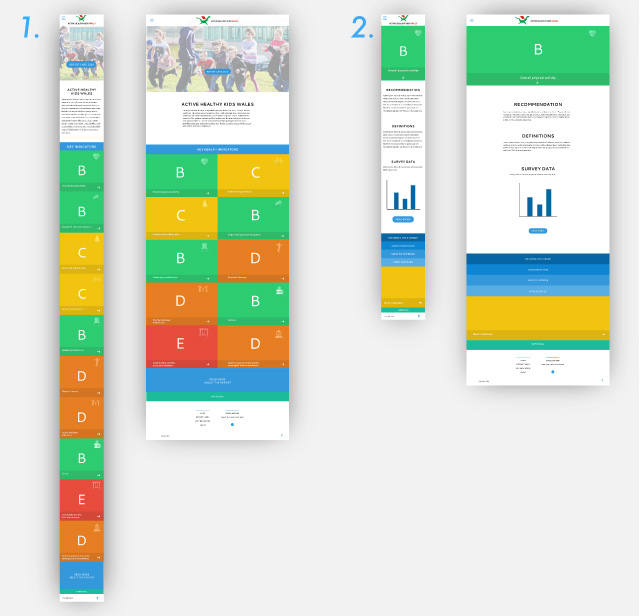
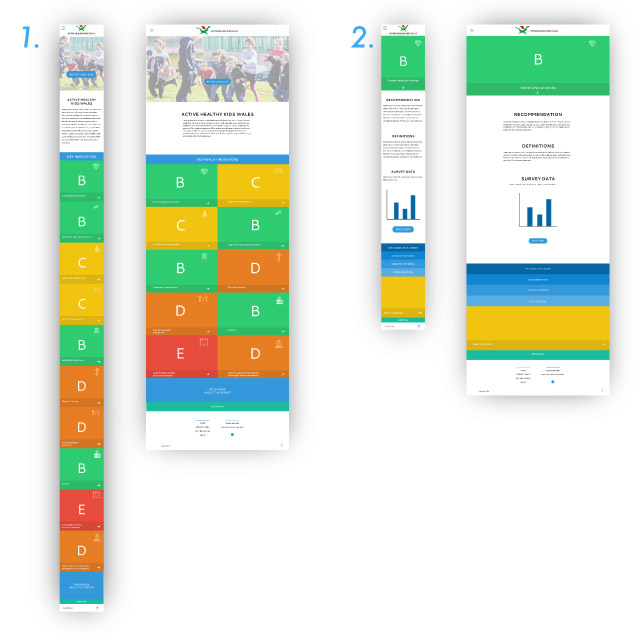
updated access-clarity img and svg sizing for goals

diff --git a/styles/main.css b/styles/main.css
@@ -1716,25 +1716,25 @@ section#introvisGoals .row {
     background-image: url(../media/ahk-wales/ahkw-goal-blue.svg);
     background-repeat: no-repeat;
     background-position: top right;
-    background-size: 25%;
+    background-size: 60%;
 }
 #green {
     background-image: url(../media/ahk-wales/ahkw-goal-green.svg);
     background-repeat: no-repeat;
     background-position: top right;
-    background-size: 25%;
+    background-size: 60%;
 }
 #yellow {
     background-image: url(../media/ahk-wales/ahkw-goal-yellow.svg);
     background-repeat: no-repeat;
     background-position: top right;
-    background-size: 25%;
+    background-size: 60%;
 }
 #red {
     background-image: url(../media/ahk-wales/ahkw-goal-red.svg);
     background-repeat: no-repeat;
     background-position: top right;
-    background-size: 25%;
+    background-size: 60%;
 }
 
 .vimeo-embed {
@@ -1766,10 +1766,6 @@ table.ahk-table th {
   padding-bottom: 12px;
   text-transform: uppercase;
   letter-spacing: 1px;
-}
-
-table.ahk-table td {
-  padding: 24px;
 }
 
 table.ahk-table > tbody > tr > td:first-of-type {
@@ -1816,14 +1812,20 @@ table.ahk-table > tbody > tr > td:first-of-type {
     .ahkwSect .row {
       margin-top: 250px;
     }
+    .footerImg.svekoFooter {
+        background-position: 50% 50%;
+    }
+}
+
+@media screen and (min-width: 768px) {
+    table.ahk-table td {
+      padding: 24px;
+    }
     .ahkw-Goal-Img#blue,
     .ahkw-Goal-Img#green,
     .ahkw-Goal-Img#red,
     .ahkw-Goal-Img#yellow {
-      background-size: 60%;
-    }
-    .footerImg.svekoFooter {
-        background-position: 50% 50%;
+      background-size: 25%;
     }
 }
 
